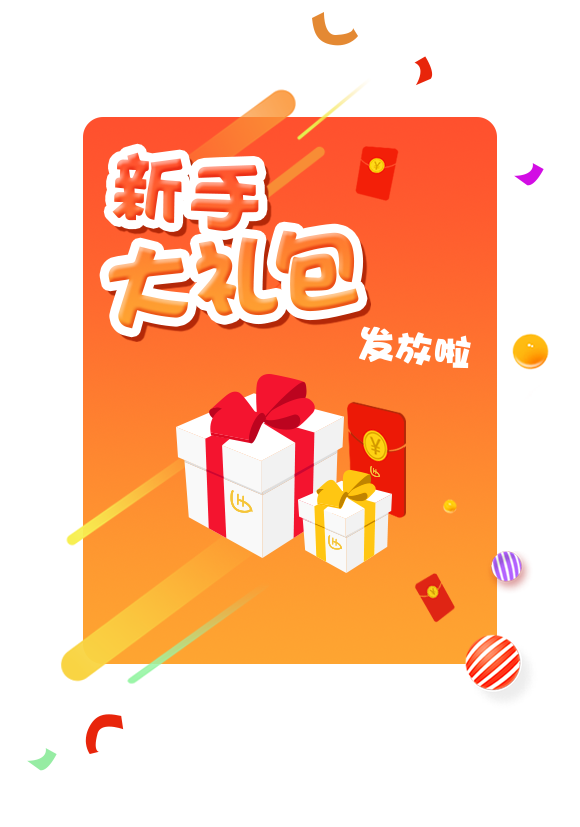
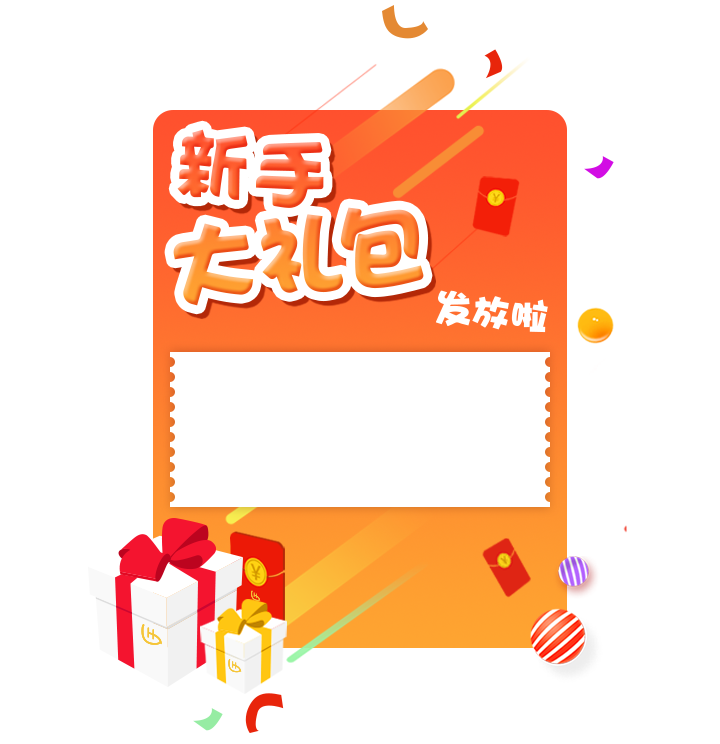
增加用户首次进入商城的优惠券

diff --git a/css/style.css b/css/style.css
@@ -567,36 +567,69 @@ a:hover, a:focus{
 	top: 0;
 	display: none;
 }
-.frist-alert p{
-	width: 3rem;
-	height: 4.3rem;
+.frist-alert-wrap{
+	width: 100%;
 	margin: 1rem auto;
-	background: url(../images/gift01.png) no-repeat;
-	-webkit-background-size: cover;
-	background-size: cover;
 	position: relative;
-	padding-top: 3rem;
 }
-.frist-alert p img{
+.frist-alert-imgup,.frist-alert-imgdown{
+	width: 100%;
+}
+.frist-alert-imgdown{
+	margin-top: -0.02rem;
+}
+.frist-alert-wrap .aclose{
 	position: absolute;
 	top: 0;
-	right: 0;
+	right: 0.8rem;
 	width: 0.3rem;
 }
-.frist-alert p span{
+.alert-cont{
+	width: 2.27rem;
 	margin: 0 auto;
-	color: #fff;
-	font-size: 0.15rem;
-	display: block;
-	width: 0.8rem;
-	height: 0.28rem;
-	line-height: 0.28rem;
-	border-radius: 0.28rem;
-	background-color: #ffcc33;
-	text-align: center;
-	box-shadow: 0.01rem 0.05rem 0rem #fabaac;
+	margin-top: -0.02rem;
+	margin-bottom: -0.02rem;
+	background: linear-gradient(to bottom,#ff6c2f,#fe9f31);
 }
-
+.alert-cont li{
+	padding:0.1rem 0.2rem;
+	background: url(../images/ps_alert_li.png) no-repeat;
+	-webkit-background-size: cover;
+	background-size: cover;
+	width: 100%;
+	height: 0.8rem;
+	margin-top: 0.03rem;
+}
+.fa-left{
+	width: 40%;
+	height: 100%;
+}
+.fa-left h5{
+	font-size: 0.4rem;
+}
+.fa-left h5 small{
+	font-size: 0.135rem;
+}
+.fa-right{
+	width: 60%;
+}
+.fa-right h5{
+	white-space: normal;
+    font-size: 0.115rem;
+    max-height: 0.24rem;
+    overflow: hidden;
+    text-overflow: ellipsis;
+}
+.fa-right p{
+	padding: 0 0.1rem;
+    border-radius: 0.2rem;
+    background-color: #ff7c08;
+    display: block;
+    height: 0.2rem;
+    width: 0.8rem;
+    line-height: 0.2rem;
+    margin: 0.1rem auto;
+}
 .banner-down img{
 	width: 100%;
 }
@@ -2926,13 +2959,29 @@ a:hover, a:focus{
 /*----------------------------------------------------*/
 /*app产品详情开始*/
 .p-num{
-	margin: 0.1rem;
+	margin: 0.1rem 0;
 	background-color: #fff;
 	height: 0.32rem;
 	line-height: 0.32rem;
 	font-size: 0.156rem;
 	padding: 0 0.1rem;
 	border-radius: 0.05rem;
+}
+.p-price{
+	height: 0.5rem;
+	line-height: 0.5rem;
+	background-color: #fff;
+	padding: 0 0.1rem;
+	font-size: 0.125rem;
+	border-bottom:1px solid #ccc ;
+}
+.p-price img{
+	height: 0.13rem;
+}
+.p-price a{
+	height: 100%;
+	width: 100%;
+	display: block;
 }
 .p-list{
 	margin: 0.1rem;
@@ -2965,6 +3014,104 @@ a:hover, a:focus{
 	height: 0.4rem;
 	width: 0.65rem;
 	float: left;
+}
+.app-header{
+	height: 0.5rem;
+	line-height: 0.5rem;
+	border-bottom: 1px solid #ccc;
+	padding: 0 0.1rem;
+	background-color: #2c3444;
+}
+.app-header span{
+	font-size: 0.25rem;
+}
+.app-header span:nth-of-type(2){
+	font-size: 0.45rem;
+}
+.app-header h4{
+	height: 0.5rem;
+	line-height: 0.5rem;
+	font-size: 0.186rem;
+}
+.app-cont{
+	padding: 0.1rem;
+	width: 100%;
+}
+.app-cont table{
+	border: 1px solid #ccc;
+}
+.app-cont table td{
+	line-height: 0.4rem !important;
+	padding: 0 0.1rem!important;
+	border-bottom:1px solid #ccc !important;
+	font-size: 0.125rem;
+}
+.app-cont tr td:nth-of-type(1){
+	width: 30%;
+	border-right:1px solid #ccc ;
+}
+.app-cont tr td:nth-of-type(2){
+	width: 70%;
+}
+.app-cont2 ul{
+	width: 100%;
+	background-color: #fff;
+}
+.app-cont2 ul li{
+	width: 100%;
+	height: 0.68rem;
+	padding: 0.1rem;
+	border-bottom: 1px solid #eee;
+}
+.app-cont2 li h3{
+	font-size: 0.156rem;
+}
+.app-cont2 li p{
+	font-size: 0.125rem;
+}
+.app-cont-alert{
+	position: fixed;
+	width: 80%;
+	top: 2rem;
+	left:10%;
+	border-radius: 0.1rem;
+	overflow: hidden;
+	z-index: 30;
+	display: none;
+}
+.app-cont-alert h4{
+	height: 0.38rem;
+	line-height: 0.38rem;
+	border-bottom: 1px solid #ffcc33;
+	font-size: 0.156rem;
+}
+.app-cont-alert li{
+	height: 0.45rem;
+	line-height: 0.45rem;
+	padding: 0 0.1rem;
+	border-bottom: 1px solid #ccc;
+}
+.app-cont-alert li img{
+	width: 0.2rem;
+}
+.app-cont-alert li input{
+	outline: none;
+	border: none;
+	height: 95%;
+	width: 85%;
+	font-size: 0.135rem;
+}
+.app-alert-btn{
+	border-top: 1px solid #ccc;
+	height: 0.4rem;
+	margin-top: 0.5rem;
+}
+.app-alert-btn button{
+	width: 50%;
+	height: 100%;
+	outline: none;
+	border: none;
+	font-size: 0.15rem;
 }
 /*app详情结束*/
 /*-------------------------------------------------------*/

diff --git a/index.html b/index.html
@@ -390,10 +390,33 @@
 			</ul>
 		</div>
 		<div class="frist-alert">
-			<p>
-				<img src="images/close.png"/>
-				<span>去查看</span>
-			</p>
+			<div class="frist-alert-wrap clearfix">
+				<img src="images/close.png" class="aclose"/>
+				<img src="images/gift03.png" class="frist-alert-imgup"/>
+				<ul class="alert-cont clearfix">
+					<li>
+						<div class="fa-left fl">
+							<h5 class="c-fc3 tac"><small class="c-fc3">￥</small>10</h5>
+							<p class="c-999 tac">满100元可用</p>
+						</div>
+						<div class="fa-right fr tac mt-10">
+						<h5>全品类优惠券看见啥地方很快</h5>
+						<p><a href="#" class="c-fff">立即查看</a></p>
+					</div>
+					</li>
+					<li>
+						<div class="fa-left fl">
+							<h5 class="c-fc3 tac"><small class="c-fc3">￥</small>10</h5>
+							<p class="c-999 tac">满100元可用</p>
+						</div>
+						<div class="fa-right fr tac mt-10">
+						<h5>全品类优惠券</h5>
+						<p><a href="#" class="c-fff">立即查看</a></p>
+					</div>
+					</li>
+				</ul>
+				<img src="images/gift04.png" class="frist-alert-imgdown"/>
+			</div>
 		</div>
 		<div class="index-bg"></div>
 		<div class="frist-come">
@@ -502,10 +525,14 @@
 						console.log('第二次进入')
 //						localStorage.removeItem('come')
 					}
-				},3000)
+				},5000)
 				$('.come-close').click(function(){
 					$('.index-bg').fadeOut()
 					$('.frist-come').fadeOut()
+				})
+				$('.frist-alert').fadeIn()
+				$('.aclose').click(function(){
+					$('.frist-alert').fadeOut()
 				})
 			});
 		</script>

diff --git a/css/media-100.css b/css/media-100.css
@@ -3,6 +3,11 @@
          font-size:288px;
      }
    }
+   @media only screen and (max-width: 1024px), only screen and (max-device-width:1024px) {
+     html,body {
+         font-size:273px;
+     }
+   }
      @media only screen and (max-width: 960px), only screen and (max-device-width:960px) {
      html,body {
          font-size:256px;
@@ -11,6 +16,11 @@
      @media only screen and (max-width: 800px), only screen and (max-device-width:800px) {
      html,body {
          font-size:213.5px;
+     }
+   }
+     @media only screen and (max-width: 768px), only screen and (max-device-width:768px) {
+     html,body {
+         font-size:204.8px;
      }
    }
      @media only screen and (max-width: 720px), only screen and (max-device-width:720px) {
